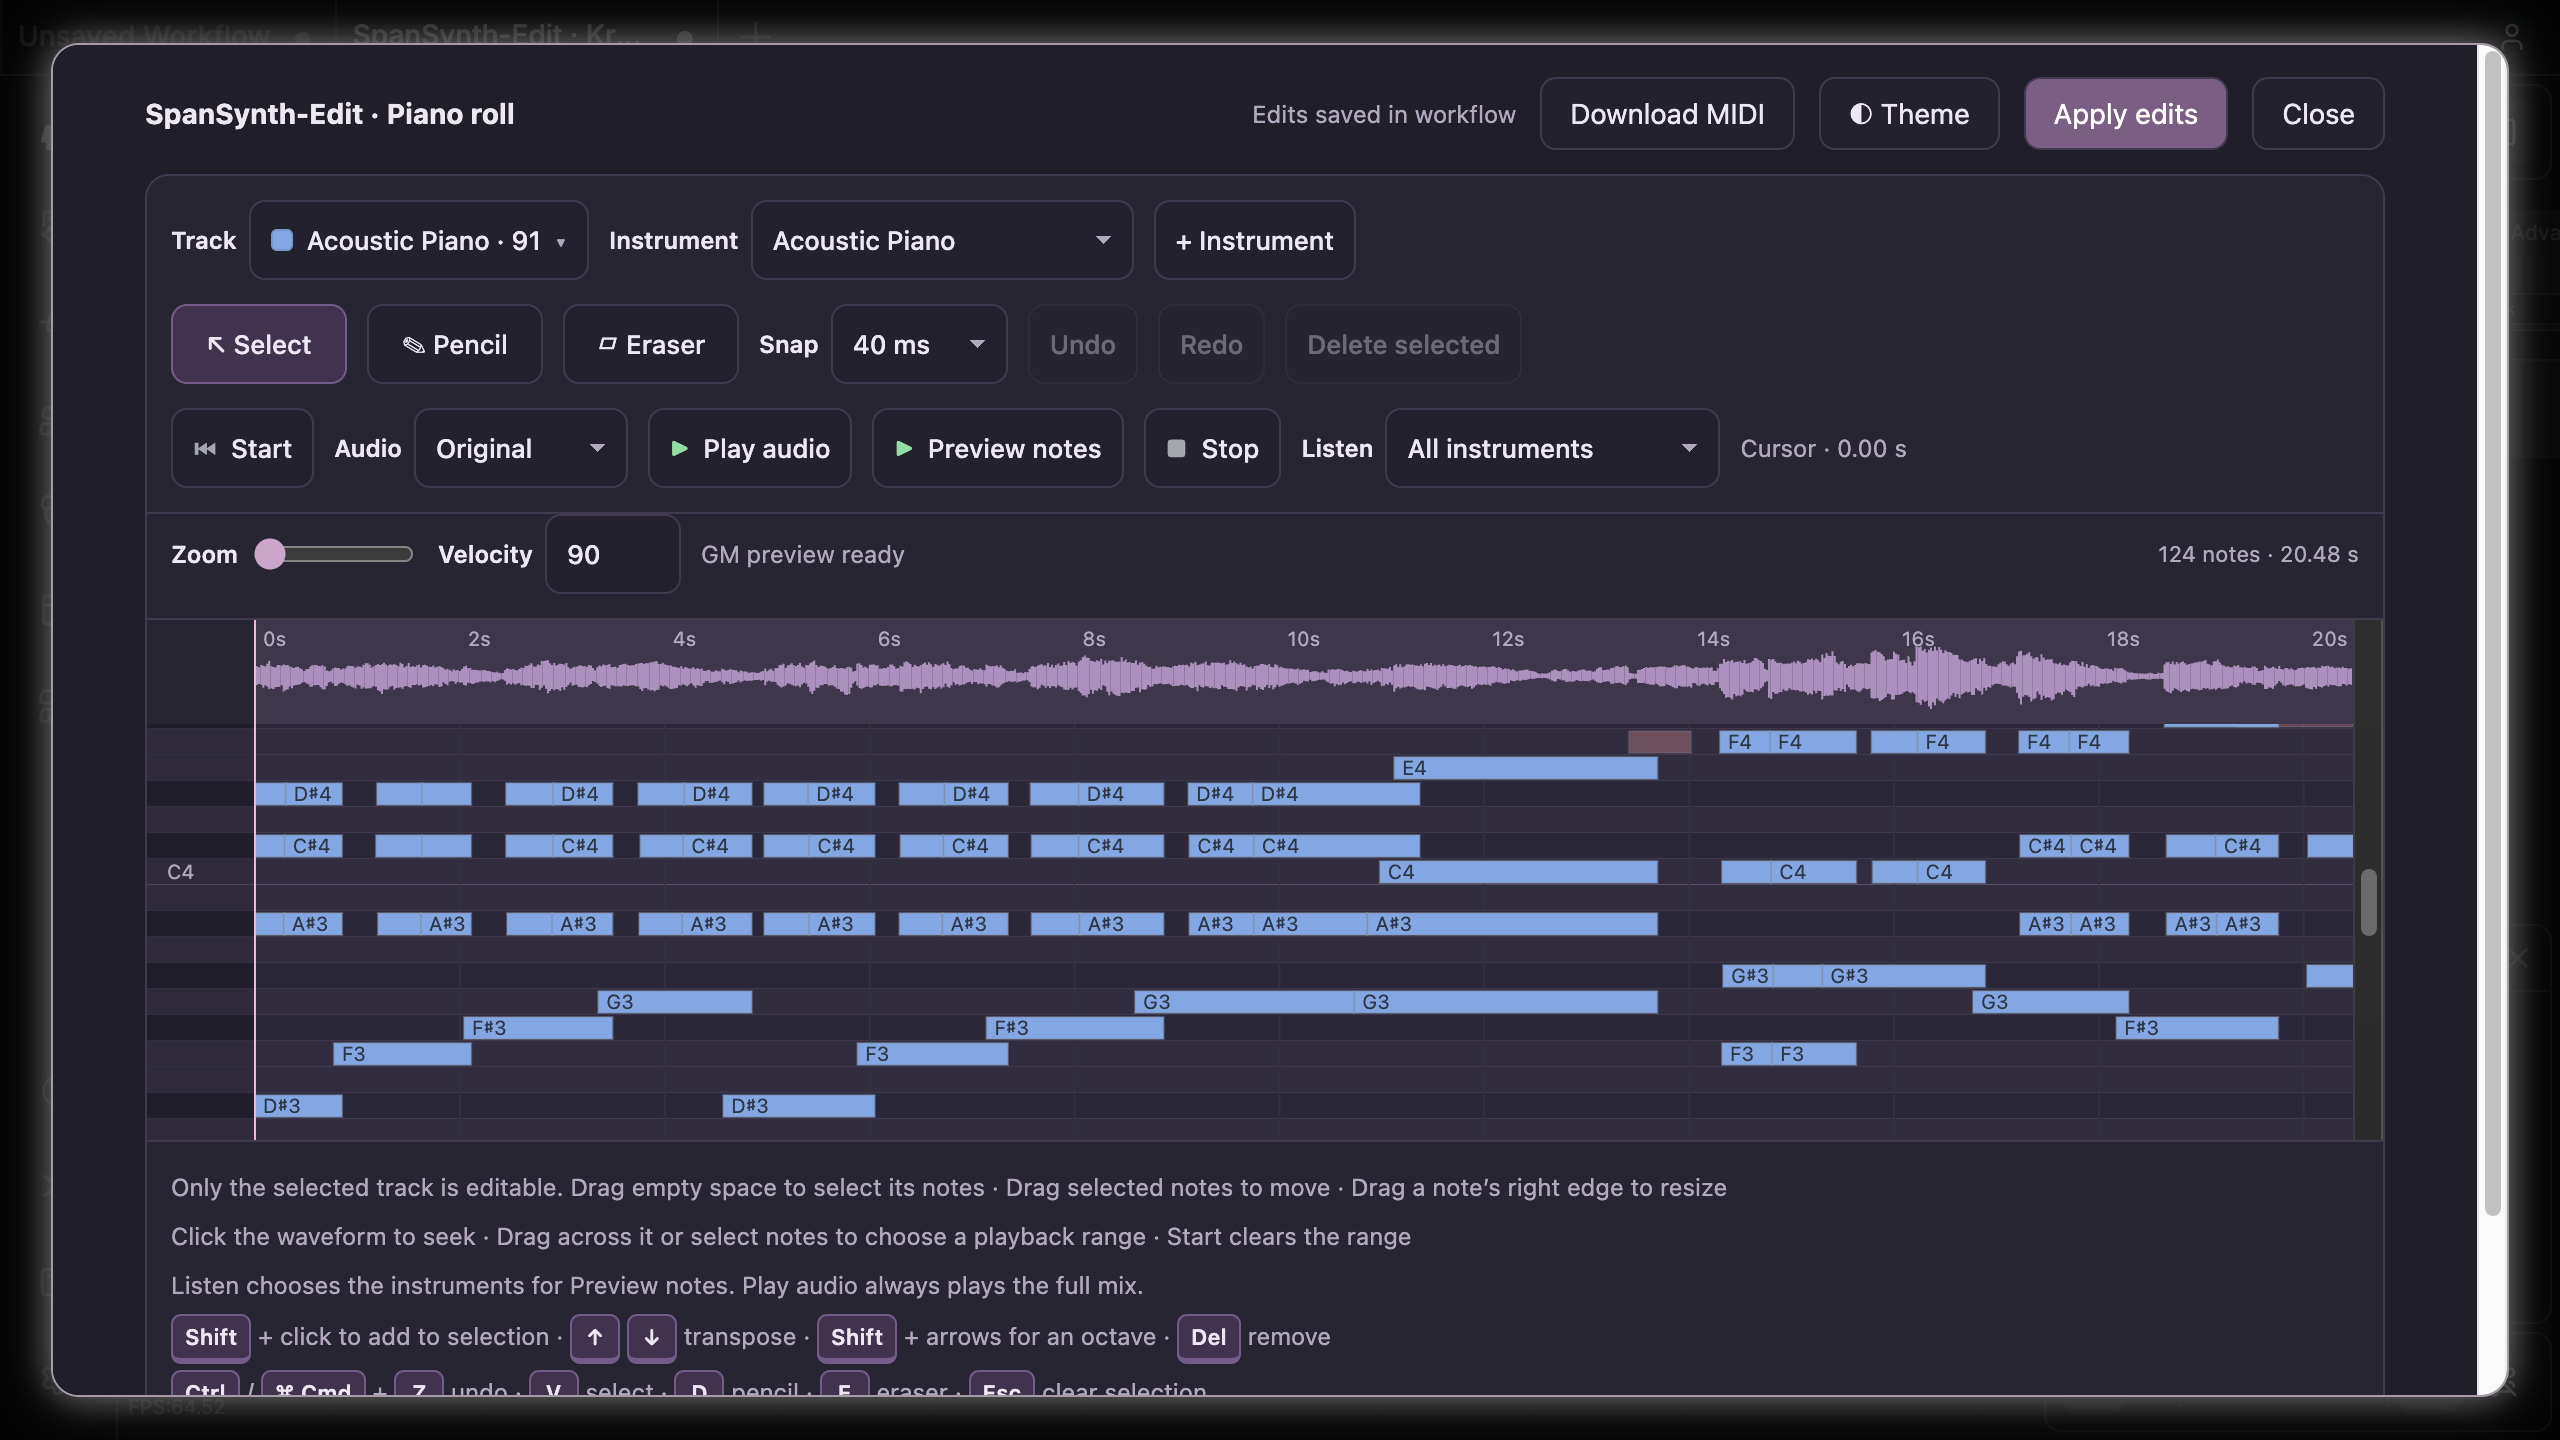
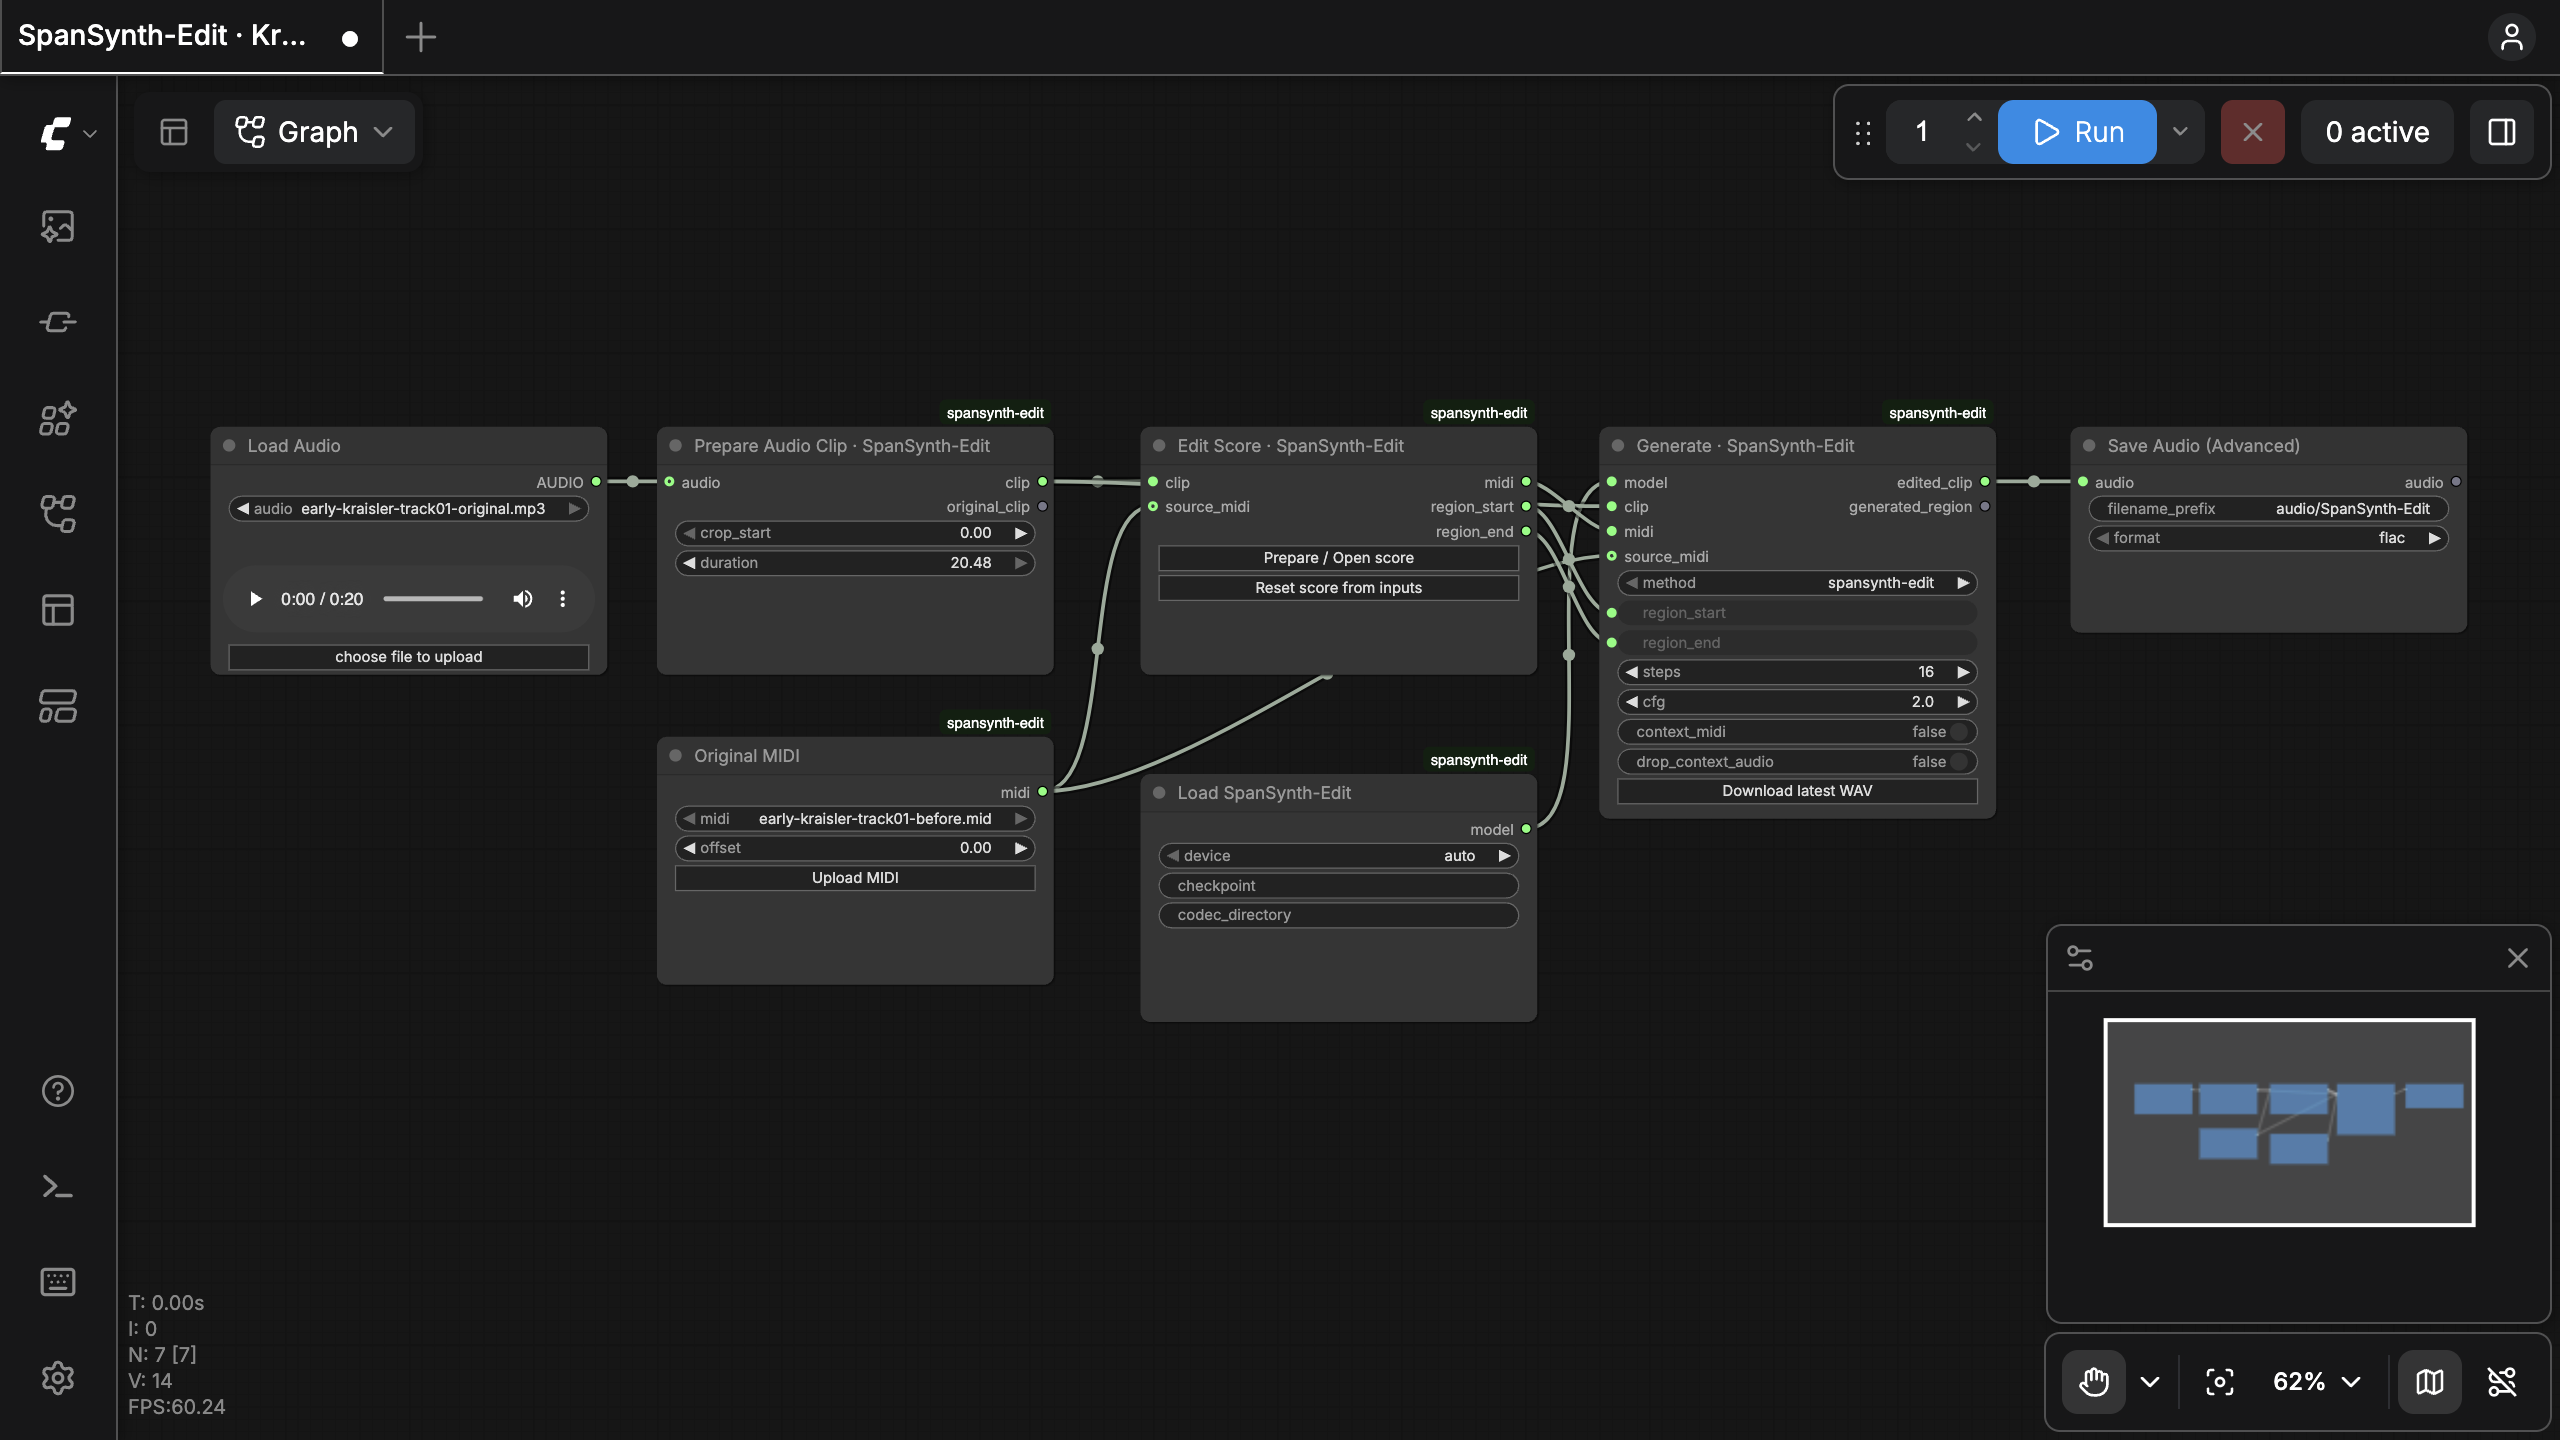
Show the complete ComfyUI workflow in the guide

diff --git a/comfyui/README.md b/comfyui/README.md
@@ -67,7 +67,9 @@ Keep SSH open and **[open the remote example](http://127.0.0.1:8189/?spansynth=e
 
 </details>
 
-![Kraisler audio and MIDI open in the ComfyUI piano-roll editor](screenshot.png)
+![Complete ComfyUI workflow with the Kraisler audio and MIDI example loaded](screenshot.png)
+
+Close the piano roll to see this workflow. **Prepare / Open score** returns to editing.
 
 ## 2. Edit → generate → listen
 
